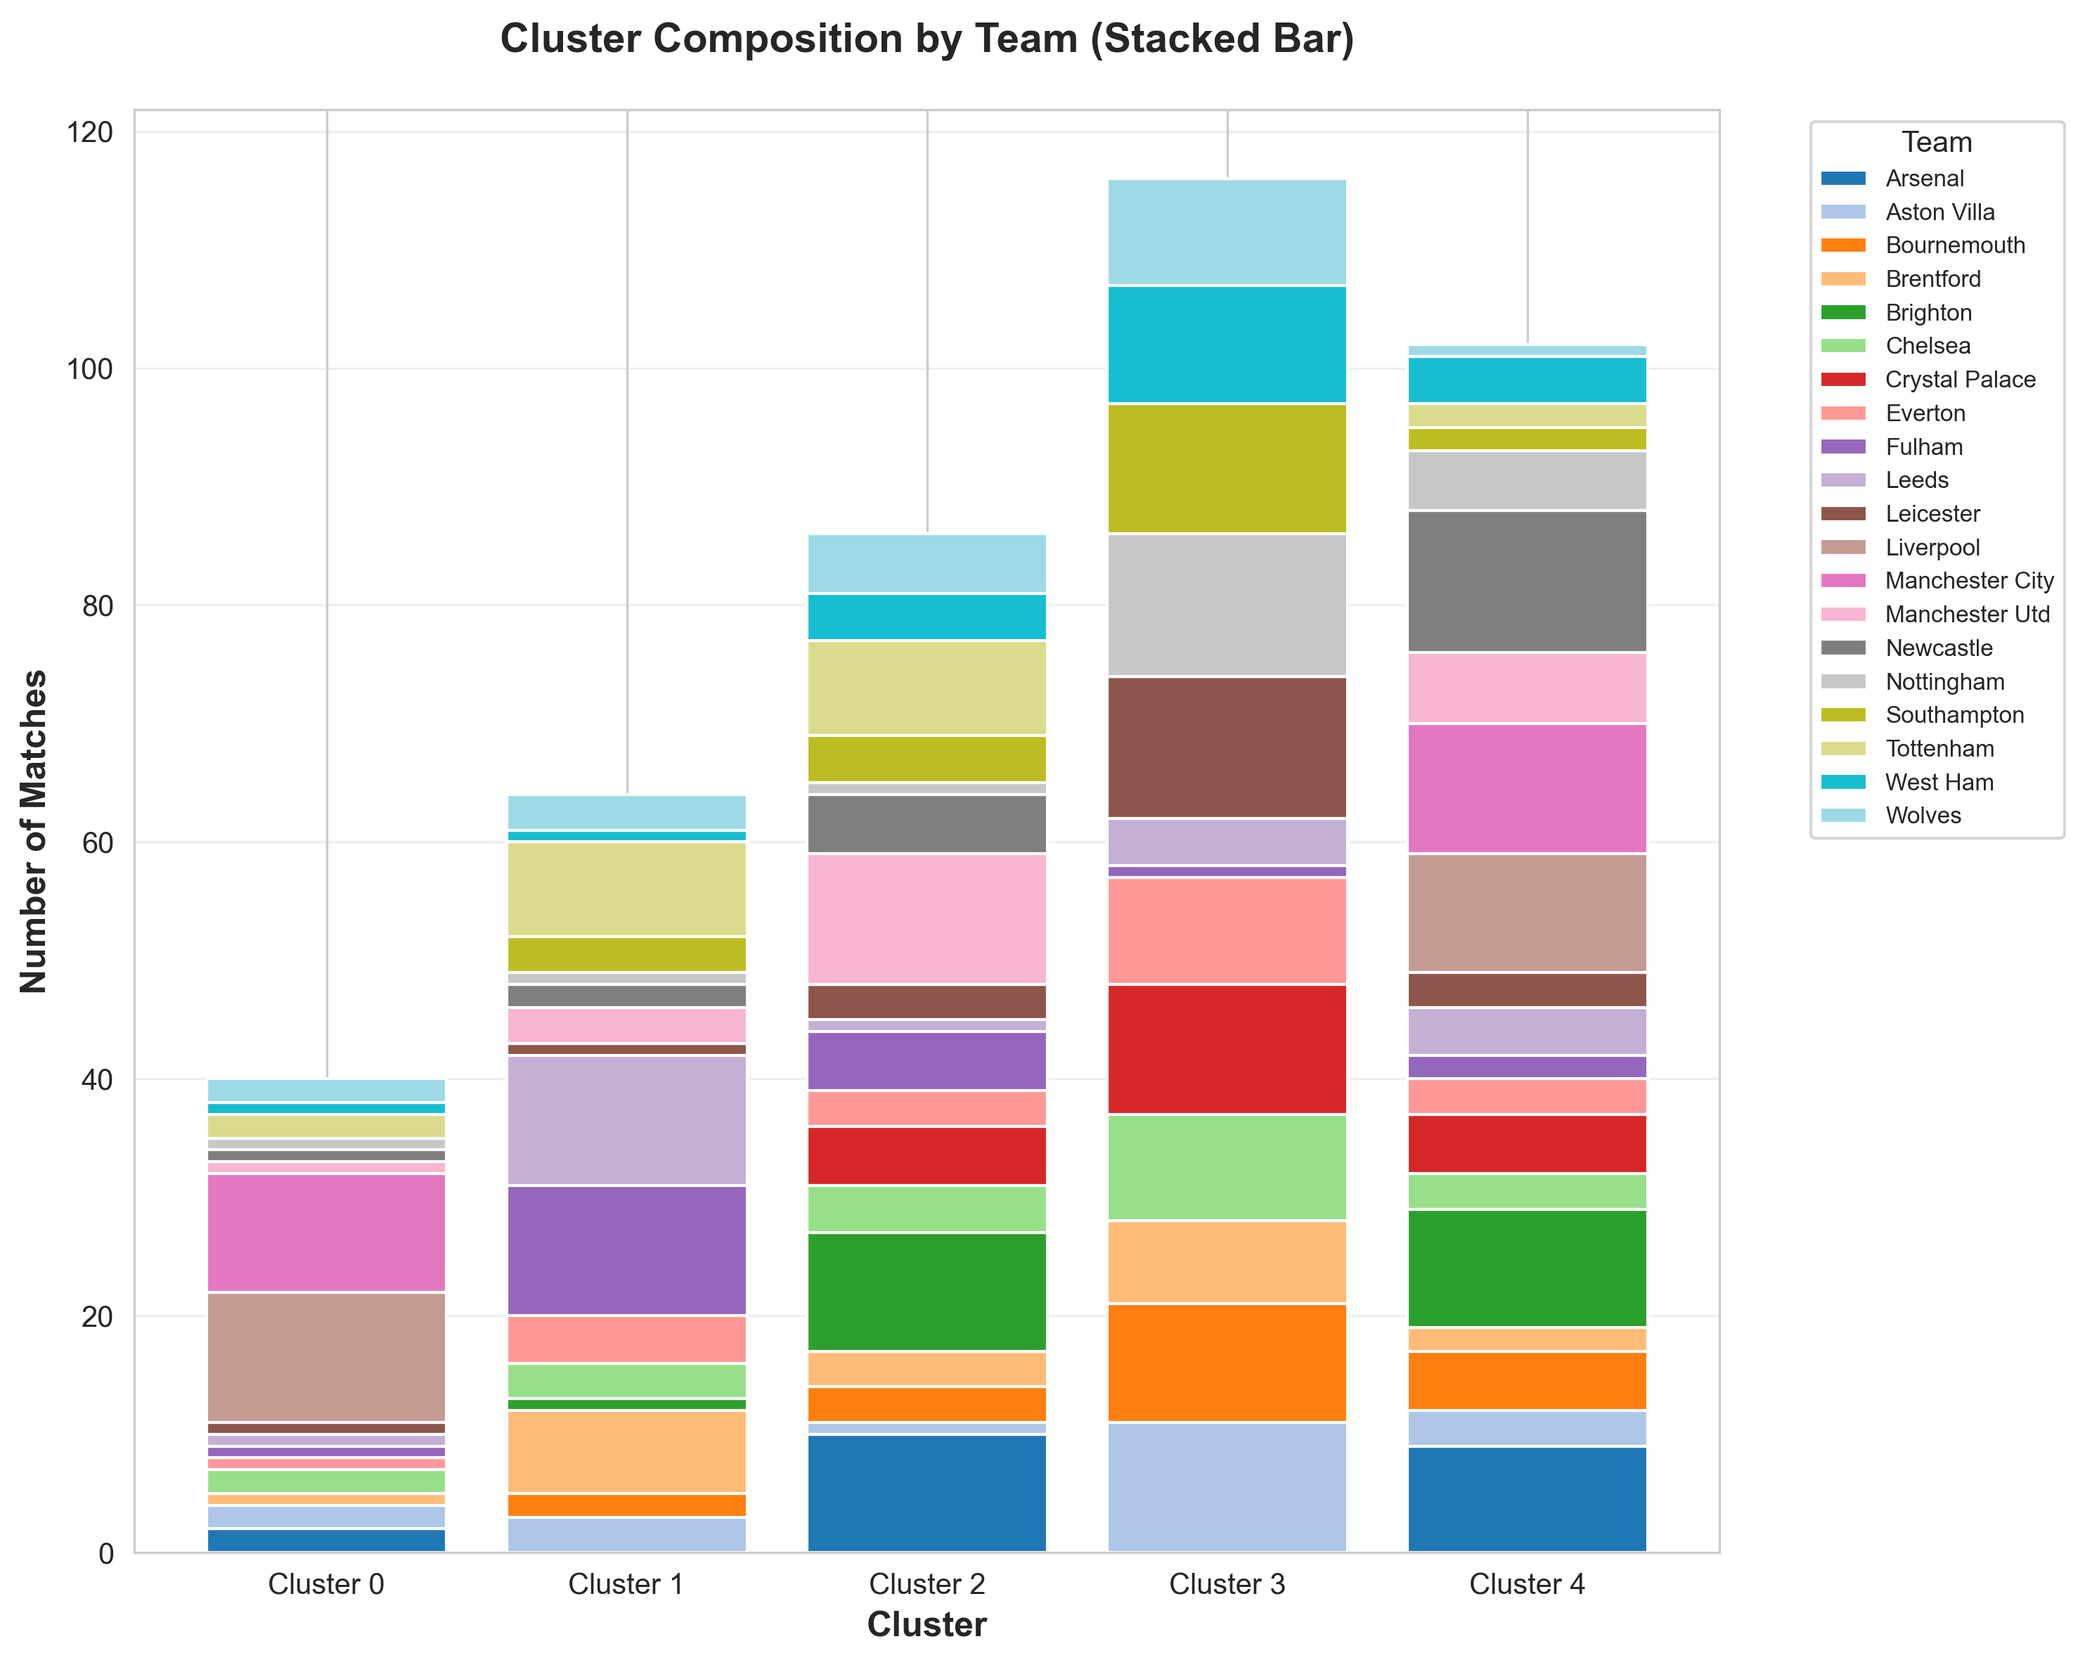
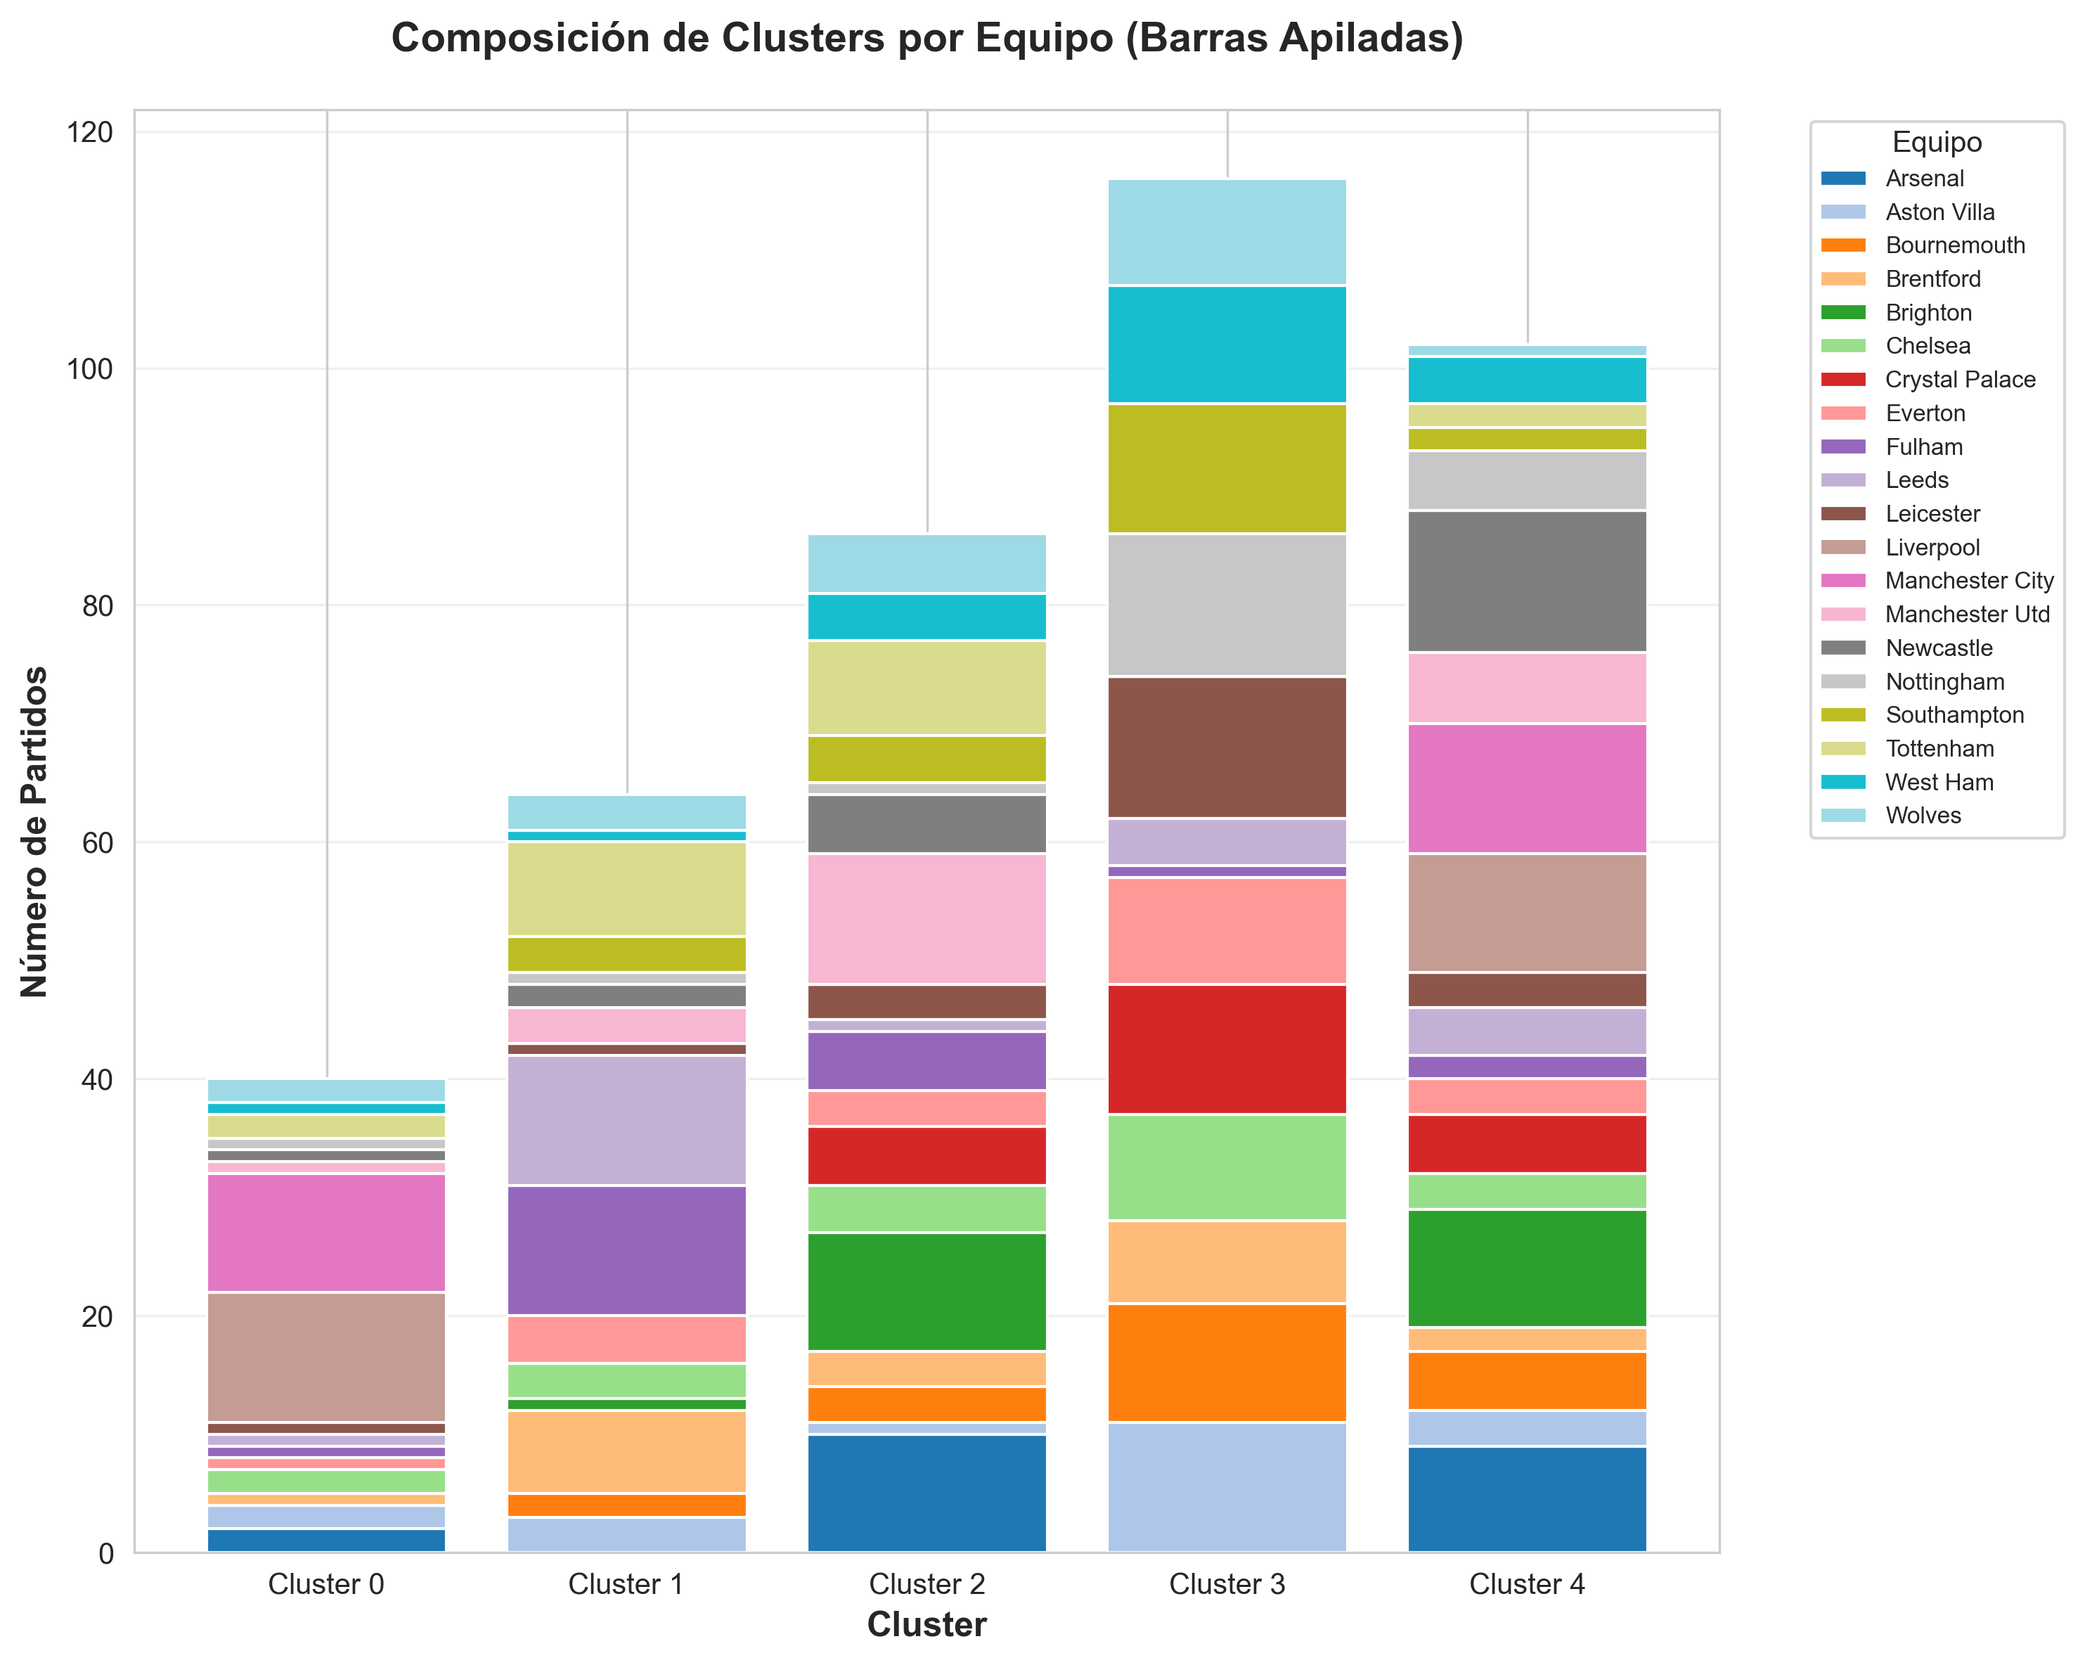
feat: Enhance cluster analysis with individual characteristic plots
- Added a new function to create individual characteristic plots for each cluster, including average goals, possession difference, total shots, and position difference.
- Implemented directory structure for saving individual plots.
- Updated main analysis script to include the generation of these new plots.
- Translated plot titles and labels to Spanish for better accessibility.

Changed region(s): [[0.1861, 0.0, 0.7134, 0.0312], [0.0, 0.4062, 0.031, 0.5938], [0.8995, 0.0625, 0.9616, 0.0938]]

diff --git a/plots.py b/plots.py
@@ -2,6 +2,7 @@ import pandas as pd
 import matplotlib.pyplot as plt
 import seaborn as sns
 import numpy as np
+import os
 
 # Read the clustered data
 df = pd.read_csv('data/clustered_matches.csv')
@@ -37,11 +38,11 @@ plt.rcParams['figure.facecolor'] = 'white'
 fig, ax = plt.subplots(figsize=(10, max(8, len(team_names) * 0.4)))
 sns.heatmap(matrix, annot=True, fmt='d', cmap='YlOrRd', 
             xticklabels=[f'Cluster {c}' for c in clusters],
-            yticklabels=team_names, cbar_kws={'label': 'Number of Matches'},
+            yticklabels=team_names, cbar_kws={'label': 'Número de Partidos'},
             linewidths=0.5, ax=ax)
-ax.set_title('Team Distribution Across Clusters (Heatmap)', fontsize=14, fontweight='bold', pad=20)
+ax.set_title('Distribución de Equipos por Cluster (Mapa de Calor)', fontsize=14, fontweight='bold', pad=20)
 ax.set_xlabel('Cluster', fontsize=12)
-ax.set_ylabel('Team', fontsize=12)
+ax.set_ylabel('Equipo', fontsize=12)
 plt.tight_layout()
 plt.savefig('plots/cluster_heatmap.png', dpi=300, bbox_inches='tight')
 plt.close()
@@ -59,9 +60,9 @@ for i, cluster in enumerate(clusters):
            color=colors[i], edgecolor='white', linewidth=1)
     bottom += values
 
-ax.set_xlabel('Team', fontsize=12, fontweight='bold')
-ax.set_ylabel('Number of Matches', fontsize=12, fontweight='bold')
-ax.set_title('Team Participation Across Clusters (Stacked Bar)', fontsize=14, fontweight='bold', pad=20)
+ax.set_xlabel('Equipo', fontsize=12, fontweight='bold')
+ax.set_ylabel('Número de Partidos', fontsize=12, fontweight='bold')
+ax.set_title('Participación de Equipos por Cluster (Barras Apiladas)', fontsize=14, fontweight='bold', pad=20)
 ax.set_xticks(x_pos)
 ax.set_xticklabels(team_names, rotation=45, ha='right')
 ax.legend(title='Cluster', loc='upper right')
@@ -86,11 +87,11 @@ for i, team in enumerate(team_names):
         bottom += values
 
 ax.set_xlabel('Cluster', fontsize=12, fontweight='bold')
-ax.set_ylabel('Number of Matches', fontsize=12, fontweight='bold')
-ax.set_title('Cluster Composition by Team (Stacked Bar)', fontsize=14, fontweight='bold', pad=20)
+ax.set_ylabel('Número de Partidos', fontsize=12, fontweight='bold')
+ax.set_title('Composición de Clusters por Equipo (Barras Apiladas)', fontsize=14, fontweight='bold', pad=20)
 ax.set_xticks(x_pos)
 ax.set_xticklabels([f'Cluster {c}' for c in clusters])
-ax.legend(title='Team', bbox_to_anchor=(1.05, 1), loc='upper left', fontsize=8)
+ax.legend(title='Equipo', bbox_to_anchor=(1.05, 1), loc='upper left', fontsize=8)
 ax.grid(axis='y', alpha=0.3)
 plt.tight_layout()
 plt.savefig('plots/cluster_stacked_bar_clusters.png', dpi=300, bbox_inches='tight')
@@ -108,9 +109,9 @@ for i, cluster in enumerate(clusters):
     ax.bar(x_pos + offset, values, bar_width, label=f'Cluster {cluster}',
            color=colors[i], edgecolor='white', linewidth=1)
 
-ax.set_xlabel('Team', fontsize=12, fontweight='bold')
-ax.set_ylabel('Number of Matches', fontsize=12, fontweight='bold')
-ax.set_title('Team Distribution Across Clusters (Grouped Bar)', fontsize=14, fontweight='bold', pad=20)
+ax.set_xlabel('Equipo', fontsize=12, fontweight='bold')
+ax.set_ylabel('Número de Partidos', fontsize=12, fontweight='bold')
+ax.set_title('Distribución de Equipos por Cluster (Barras Agrupadas)', fontsize=14, fontweight='bold', pad=20)
 ax.set_xticks(x_pos)
 ax.set_xticklabels(team_names, rotation=45, ha='right')
 ax.legend(title='Cluster', loc='upper right')
@@ -133,9 +134,9 @@ for i, cluster in enumerate(clusters):
            color=colors[i], edgecolor='white', linewidth=1)
     bottom += values
 
-ax.set_xlabel('Team', fontsize=12, fontweight='bold')
-ax.set_ylabel('Percentage of Matches (%)', fontsize=12, fontweight='bold')
-ax.set_title('Team Cluster Distribution (100% Stacked)', fontsize=14, fontweight='bold', pad=20)
+ax.set_xlabel('Equipo', fontsize=12, fontweight='bold')
+ax.set_ylabel('Porcentaje de Partidos (%)', fontsize=12, fontweight='bold')
+ax.set_title('Distribución de Clusters por Equipo (100% Apilado)', fontsize=14, fontweight='bold', pad=20)
 ax.set_xticks(x_pos)
 ax.set_xticklabels(team_names, rotation=45, ha='right')
 ax.legend(title='Cluster', loc='upper right')
@@ -144,7 +145,7 @@ plt.tight_layout()
 plt.savefig('plots/cluster_percentage_stacked.png', dpi=300, bbox_inches='tight')
 plt.close()
 
-# 6. PIE CHARTS (one per cluster)
+# 6. PIE CHARTS (one per cluster) - Combined view
 n_clusters_to_plot = len(clusters)
 fig, axes = plt.subplots(1, n_clusters_to_plot, figsize=(6*n_clusters_to_plot, 6))
 if n_clusters_to_plot == 1:
@@ -160,23 +161,61 @@ for i, cluster in enumerate(clusters):
     if len(sizes) > 0:
         axes[i].pie(sizes, labels=labels, autopct='%1.1f%%', startangle=90,
                    colors=plt.cm.Set3(np.linspace(0, 1, len(sizes))))
-        axes[i].set_title(f'Cluster {cluster} Composition', fontsize=12, fontweight='bold')
+        axes[i].set_title(f'Composición Cluster {cluster}', fontsize=12, fontweight='bold')
     else:
-        axes[i].text(0.5, 0.5, 'No Data', ha='center', va='center')
-        axes[i].set_title(f'Cluster {cluster} Composition', fontsize=12, fontweight='bold')
+        axes[i].text(0.5, 0.5, 'Sin Datos', ha='center', va='center')
+        axes[i].set_title(f'Composición Cluster {cluster}', fontsize=12, fontweight='bold')
 
 plt.tight_layout()
 plt.savefig('plots/cluster_pie_charts.png', dpi=300, bbox_inches='tight')
 plt.close()
 
+# 7. INDIVIDUAL PIE CHARTS (one file per cluster)
+# Create directory for individual cluster plots
+os.makedirs('plots/clusters_individuales', exist_ok=True)
+
+for cluster in clusters:
+    fig, ax = plt.subplots(figsize=(10, 8))
+    cluster_data = matrix[:, cluster]
+    
+    # Only show teams with matches in this cluster
+    mask = cluster_data > 0
+    labels = [team_names[j] for j in range(len(team_names)) if mask[j]]
+    sizes = cluster_data[mask]
+    
+    if len(sizes) > 0:
+        wedges, texts, autotexts = ax.pie(sizes, labels=labels, autopct='%1.1f%%', 
+                                           startangle=90,
+                                           colors=plt.cm.Set3(np.linspace(0, 1, len(sizes))),
+                                           textprops={'fontsize': 10})
+        
+        # Make percentage text bold
+        for autotext in autotexts:
+            autotext.set_color('white')
+            autotext.set_fontweight('bold')
+            autotext.set_fontsize(11)
+        
+        ax.set_title(f'Composición Cluster {cluster}\n({int(cluster_data.sum())} partidos)', 
+                    fontsize=14, fontweight='bold', pad=20)
+    else:
+        ax.text(0.5, 0.5, 'Sin Datos', ha='center', va='center', fontsize=16)
+        ax.set_title(f'Composición Cluster {cluster}', fontsize=14, fontweight='bold', pad=20)
+    
+    plt.tight_layout()
+    plt.savefig(f'plots/clusters_individuales/cluster_{cluster}.png', dpi=300, bbox_inches='tight')
+    plt.close()
+
 print("=" * 80)
-print("VISUALIZATIONS CREATED SUCCESSFULLY")
+print("VISUALIZACIONES CREADAS EXITOSAMENTE")
 print("=" * 80)
-print("\nGenerated files:")
-print("  1. cluster_heatmap.png - Color-coded matrix of team-cluster frequencies")
-print("  2. cluster_stacked_bar_teams.png - Teams with cluster breakdown")
-print("  3. cluster_stacked_bar_clusters.png - Clusters with team composition")
-print("  4. cluster_grouped_bar.png - Side-by-side comparison by team")
-print("  5. cluster_percentage_stacked.png - Normalized 100% stacked bars")
-print("  6. cluster_pie_charts.png - Cluster composition pie charts")
+print("\nArchivos generados:")
+print("  1. cluster_heatmap.png - Matriz de frecuencias equipo-cluster")
+print("  2. cluster_stacked_bar_teams.png - Equipos con desglose por cluster")
+print("  3. cluster_stacked_bar_clusters.png - Clusters con composición de equipos")
+print("  4. cluster_grouped_bar.png - Comparación lado a lado por equipo")
+print("  5. cluster_percentage_stacked.png - Barras apiladas 100% normalizadas")
+print("  6. cluster_pie_charts.png - Gráficos de torta de composición de clusters")
+print("\nCarpeta 'clusters_individuales' con gráficos por cluster:")
+for cluster in clusters:
+    print(f"  - cluster_{cluster}.png")
 print("\n" + "=" * 80)

diff --git a/cluster_analysis_conclusions.py b/cluster_analysis_conclusions.py
@@ -1,6 +1,7 @@
 import pandas as pd
 import matplotlib.pyplot as plt
 import numpy as np
+import os
 
 def analyze_clusters():
     """
@@ -156,12 +157,98 @@ def create_cluster_characteristics_plot(cluster_data):
     print("Archivo guardado: plots/cluster_characteristics.png")
     print("=" * 80)
 
+def create_individual_characteristic_plots(cluster_data):
+    """
+    Crea gráficos individuales para cada característica en una carpeta separada.
+    """
+    
+    # Crear directorio para los gráficos individuales
+    os.makedirs('plots/caracteristicas_individuales', exist_ok=True)
+    
+    clusters = sorted(cluster_data.keys())
+    cluster_labels = [f'Cluster {c}' for c in clusters]
+    
+    # Extraer datos
+    goals = [cluster_data[c]['total_goals'] for c in clusters]
+    possession = [cluster_data[c]['possession_diff'] for c in clusters]
+    shots = [cluster_data[c]['total_shots'] for c in clusters]
+    position = [cluster_data[c]['position_diff'] for c in clusters]
+    
+    colors = ['#FF6B6B', '#4ECDC4', '#45B7D1', '#96CEB4', '#FFEAA7']
+    
+    # 1. Gráfico de Goles promedio
+    fig, ax = plt.subplots(figsize=(10, 6))
+    bars = ax.bar(cluster_labels, goals, color=colors[:len(clusters)])
+    ax.set_title('Goles Promedio por Partido', fontweight='bold', fontsize=14)
+    ax.set_xlabel('Cluster', fontsize=12)
+    ax.set_ylabel('Goles', fontsize=12)
+    ax.grid(axis='y', alpha=0.3)
+    for bar, val in zip(bars, goals):
+        ax.text(bar.get_x() + bar.get_width()/2, bar.get_height() + 0.05, 
+                f'{val:.2f}', ha='center', va='bottom', fontsize=10, fontweight='bold')
+    plt.tight_layout()
+    plt.savefig('plots/caracteristicas_individuales/1_goles_promedio.png', dpi=300, bbox_inches='tight')
+    plt.close()
+    
+    # 2. Gráfico de Diferencia de posesión
+    fig, ax = plt.subplots(figsize=(10, 6))
+    bars = ax.bar(cluster_labels, possession, color=colors[:len(clusters)])
+    ax.set_title('Diferencia de Posesión Promedio', fontweight='bold', fontsize=14)
+    ax.set_xlabel('Cluster', fontsize=12)
+    ax.set_ylabel('Diferencia (%)', fontsize=12)
+    ax.grid(axis='y', alpha=0.3)
+    for bar, val in zip(bars, possession):
+        ax.text(bar.get_x() + bar.get_width()/2, bar.get_height() + 0.3, 
+                f'{val:.2f}', ha='center', va='bottom', fontsize=10, fontweight='bold')
+    plt.tight_layout()
+    plt.savefig('plots/caracteristicas_individuales/2_diferencia_posesion.png', dpi=300, bbox_inches='tight')
+    plt.close()
+    
+    # 3. Gráfico de Tiros al arco
+    fig, ax = plt.subplots(figsize=(10, 6))
+    bars = ax.bar(cluster_labels, shots, color=colors[:len(clusters)])
+    ax.set_title('Tiros al Arco Promedio', fontweight='bold', fontsize=14)
+    ax.set_xlabel('Cluster', fontsize=12)
+    ax.set_ylabel('Tiros', fontsize=12)
+    ax.grid(axis='y', alpha=0.3)
+    for bar, val in zip(bars, shots):
+        ax.text(bar.get_x() + bar.get_width()/2, bar.get_height() + 0.1, 
+                f'{val:.2f}', ha='center', va='bottom', fontsize=10, fontweight='bold')
+    plt.tight_layout()
+    plt.savefig('plots/caracteristicas_individuales/3_tiros_al_arco.png', dpi=300, bbox_inches='tight')
+    plt.close()
+    
+    # 4. Gráfico de Diferencia de posiciones
+    fig, ax = plt.subplots(figsize=(10, 6))
+    bars = ax.bar(cluster_labels, position, color=colors[:len(clusters)])
+    ax.set_title('Diferencia de Posiciones en Tabla', fontweight='bold', fontsize=14)
+    ax.set_xlabel('Cluster', fontsize=12)
+    ax.set_ylabel('Diferencia', fontsize=12)
+    ax.grid(axis='y', alpha=0.3)
+    for bar, val in zip(bars, position):
+        ax.text(bar.get_x() + bar.get_width()/2, bar.get_height() + 0.2, 
+                f'{val:.2f}', ha='center', va='bottom', fontsize=10, fontweight='bold')
+    plt.tight_layout()
+    plt.savefig('plots/caracteristicas_individuales/4_diferencia_posiciones.png', dpi=300, bbox_inches='tight')
+    plt.close()
+    
+    print("\n" + "=" * 80)
+    print("GRÁFICOS INDIVIDUALES GENERADOS")
+    print("=" * 80)
+    print("Carpeta: plots/caracteristicas_individuales/")
+    print("  - 1_goles_promedio.png")
+    print("  - 2_diferencia_posesion.png")
+    print("  - 3_tiros_al_arco.png")
+    print("  - 4_diferencia_posiciones.png")
+    print("=" * 80)
+
 if __name__ == "__main__":
     print("INICIANDO ANÁLISIS DE CLUSTERS...")
     print()
     
     cluster_data, merged_df = analyze_clusters()
     create_cluster_characteristics_plot(cluster_data)
+    create_individual_characteristic_plots(cluster_data)
     
     print("\n" + "=" * 80)
     print("ANÁLISIS COMPLETADO")
